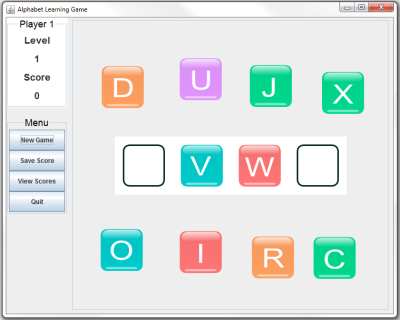
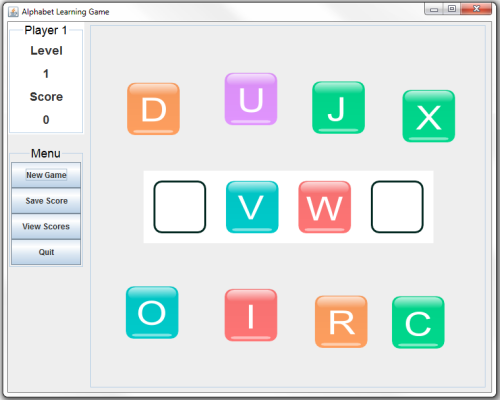
Decrease image size

diff --git a/README.md b/README.md
@@ -9,7 +9,7 @@ randomly missing.
 The player must use their knowledge of the alphabet to deduce which 
 letters belong in the blank spots.
 
-<img style="width:400px;" src="https://github.com/lmitchell4/AlphabetGame/blob/master/images/example_game.png" alt="Example game">
+<img style="width:500px;" src="https://github.com/lmitchell4/AlphabetGame/blob/master/images/example_game.png" alt="Example game">
 
 ## How to Play
 
